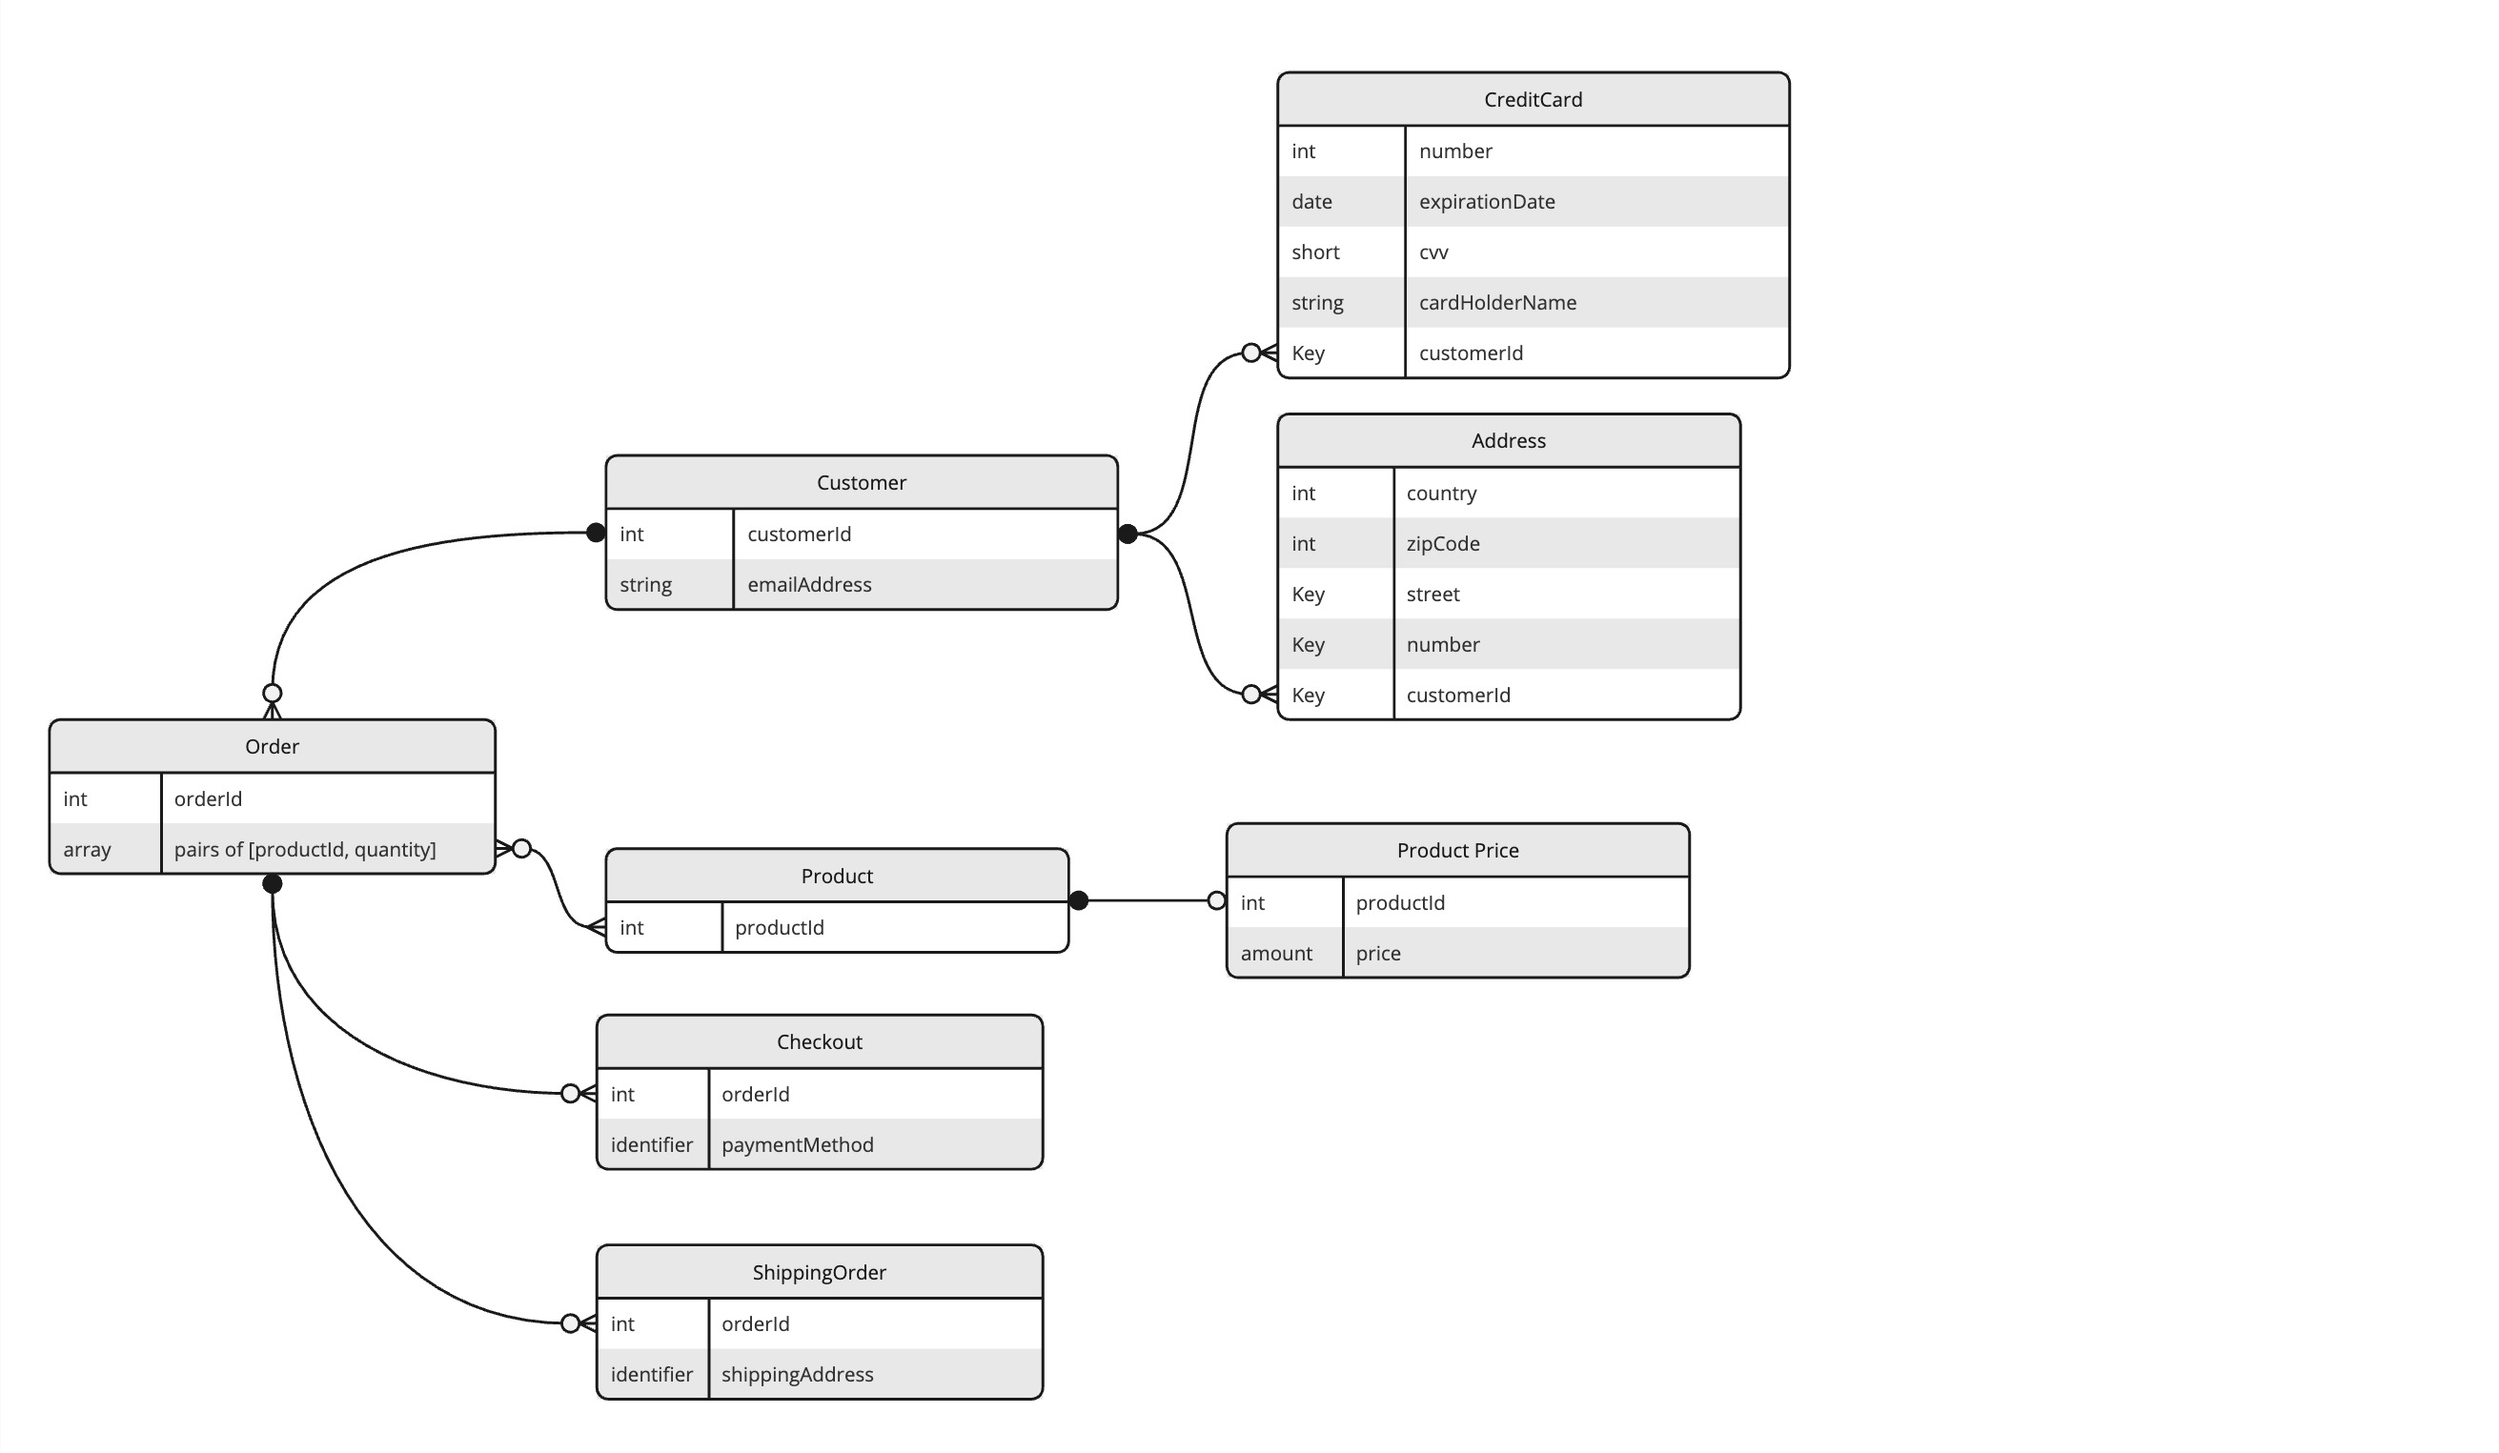
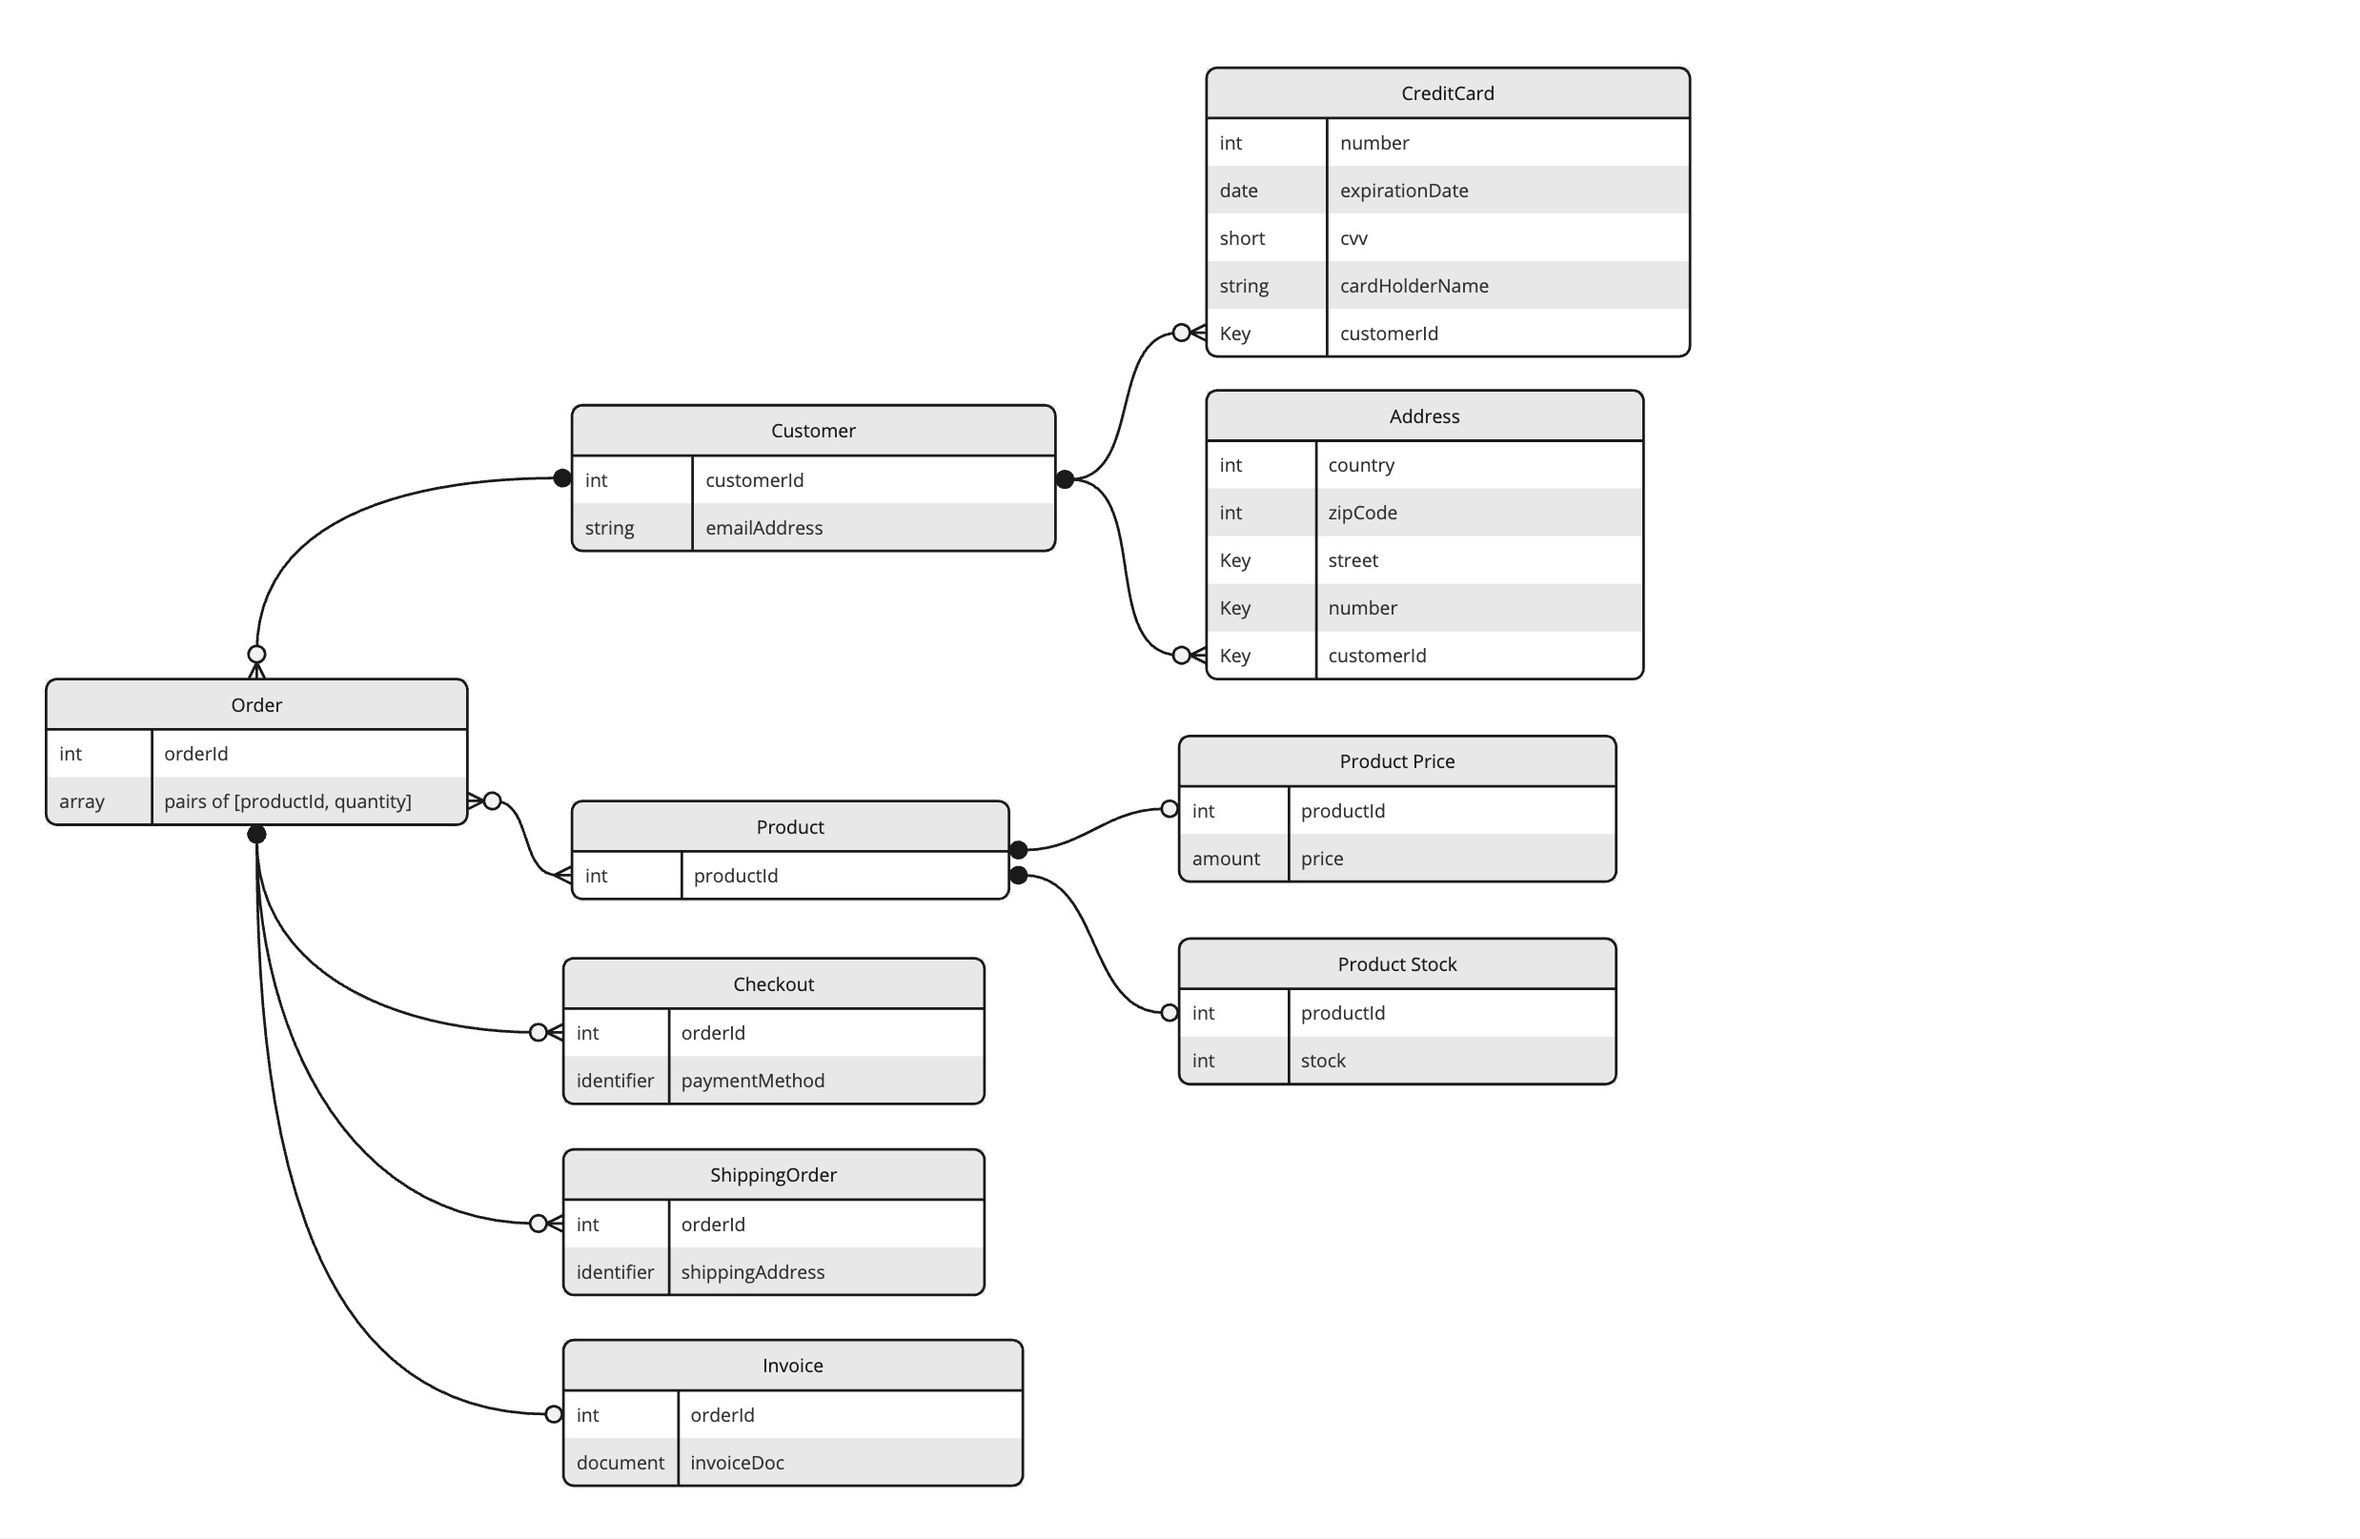
Domain Code v1

diff --git a/confirmCheckout.php b/confirmCheckout.php
@@ -1,0 +1,57 @@
+<?php
+
+use Model\Address;
+use Model\CreditCardInfo;
+use Model\Order;
+use Model\Product\ProductPrice;
+use Model\Product\ProductStock;
+
+class confirmCheckout
+{
+    public function confirmCheckout($customerId, $customerEmailAddress, Address $shippingAddress, CreditCardInfo $creditCardInfo, array $productQuantities)
+    {
+        $order = new Order($customerId, $productQuantities, $shippingAddress);
+
+        $totalPrice = $this->getTotalPrice($productQuantities);
+
+        $this->paymentProvider->charge($creditCardInfo, $totalPrice);
+        $this->invoicingProvider->purchaseCompleted($order->id, $customerEmailAddress, 'Your order has been placed');
+        $this->shippingProvider->ship($order);
+
+        $this->orderRepository->save($order);
+    }
+
+    /**
+     * @param array $productQuantities
+     * @return void
+     * @throws Exception
+     */
+    public function getTotalPrice(array $productQuantities) : float
+    {
+        $totalPrice = 0;
+        foreach ($productQuantities as $productQuantity) {
+            /* @var $productPrice ProductPrice */
+            $productPrice = $this->pricingService->getProductPrice($productQuantity['productId']);
+
+            $this->checkProductStock($productQuantity);
+
+            $totalPrice += $productPrice * $productQuantity['quantity'];
+        }
+
+        return $totalPrice;
+    }
+
+    /**
+     * @param $productQuantity
+     * @return void
+     * @throws Exception
+     */
+    public function checkProductStock($productQuantity)
+    {
+        /* @var $productPrice ProductStock */
+        $productStock = $this->stockService->getProductStock($productQuantity['productId']);
+        if ($productStock->stock < $productQuantity['quantity']) {
+            throw new \Exception('Not enough stock for product ' . $productQuantity['productId']);
+        }
+    }
+}

diff --git a/Model/Order.php b/Model/Order.php
@@ -1,0 +1,37 @@
+<?php
+
+namespace Model;
+class Order
+{
+    /**
+     * @var int
+     */
+    public $id;
+
+    /**
+     * @var int
+     */
+    public $customerId;
+
+    /**
+     * @var array
+     */
+    public $productQuantities;
+
+    /**
+     * @var Address
+     */
+    public $shippingAddress;
+
+    public function __construct($customerId, array $productQuantities, Address $shippingAddress)
+    {
+        $this->customerId = $customerId;
+        $this->productQuantities = $productQuantities;
+        $this->shippingAddress = $shippingAddress;
+    }
+
+    public function addProducts(array $productQuantities)
+    {
+        $this->productQuantities = $productQuantities;
+    }
+}

diff --git a/Model/CreditCardInfo.php b/Model/CreditCardInfo.php
@@ -1,0 +1,38 @@
+<?php
+
+namespace Model;
+class CreditCardInfo
+{
+    /**
+     * @var string
+     */
+    public $type;
+
+    /**
+     * @var string
+     */
+    public $cardNumber;
+
+    /**
+     * @var string
+     */
+    public $expirationDate;
+
+    /**
+     * @var string
+     */
+    public $cvv;
+
+    /**
+     * @var string
+     */
+    public $cardholderName;
+
+    public function __construct($cardNumber, $expirationDate, $cvv, $cardholderName)
+    {
+        $this->cardNumber = $cardNumber;
+        $this->expirationDate = $expirationDate;
+        $this->cvv = $cvv;
+        $this->cardholderName = $cardholderName;
+    }
+}

diff --git a/Model/Address.php b/Model/Address.php
@@ -1,0 +1,33 @@
+<?php
+
+namespace Model;
+class Address
+{
+    /**
+     * @var mixed
+     */
+    public $country;
+
+    /**
+     * @var mixed
+     */
+    public $zipCode;
+
+    /**
+     * @var mixed
+     */
+    public $street;
+
+    /**
+     * @var mixed
+     */
+    public $number;
+
+    public function __construct($country, $zipCode, $street, $number)
+    {
+        $this->country = $country;
+        $this->zipCode = $zipCode;
+        $this->street = $street;
+        $this->number = $number;
+    }
+}

diff --git a/Model/Product/ProductPrice.php b/Model/Product/ProductPrice.php
@@ -1,0 +1,22 @@
+<?php
+
+namespace Model\Product;
+
+class ProductPrice
+{
+    /**
+     * @var int
+     */
+    public $productId;
+
+    /**
+     * @var float
+     */
+    public $price;
+
+    public function __construct(int $productId, float $price)
+    {
+        $this->productId = $productId;
+        $this->price = $price;
+    }
+}

diff --git a/Model/Product/ProductStock.php b/Model/Product/ProductStock.php
@@ -1,0 +1,22 @@
+<?php
+
+namespace Model\Product;
+
+class ProductStock
+{
+    /**
+     * @var int
+     */
+    public $productId;
+
+    /**
+     * @var int
+     */
+    public $stock;
+
+    public function __construct(int $productId, int $stock)
+    {
+        $this->productId = $productId;
+        $this->stock = $stock;
+    }
+}

diff --git a/Model/Product/Product.php b/Model/Product/Product.php
@@ -1,0 +1,10 @@
+<?php
+
+namespace Model\Product;
+class Product
+{
+    public function __construct($id)
+    {
+        $this->id = $id;
+    }
+}
